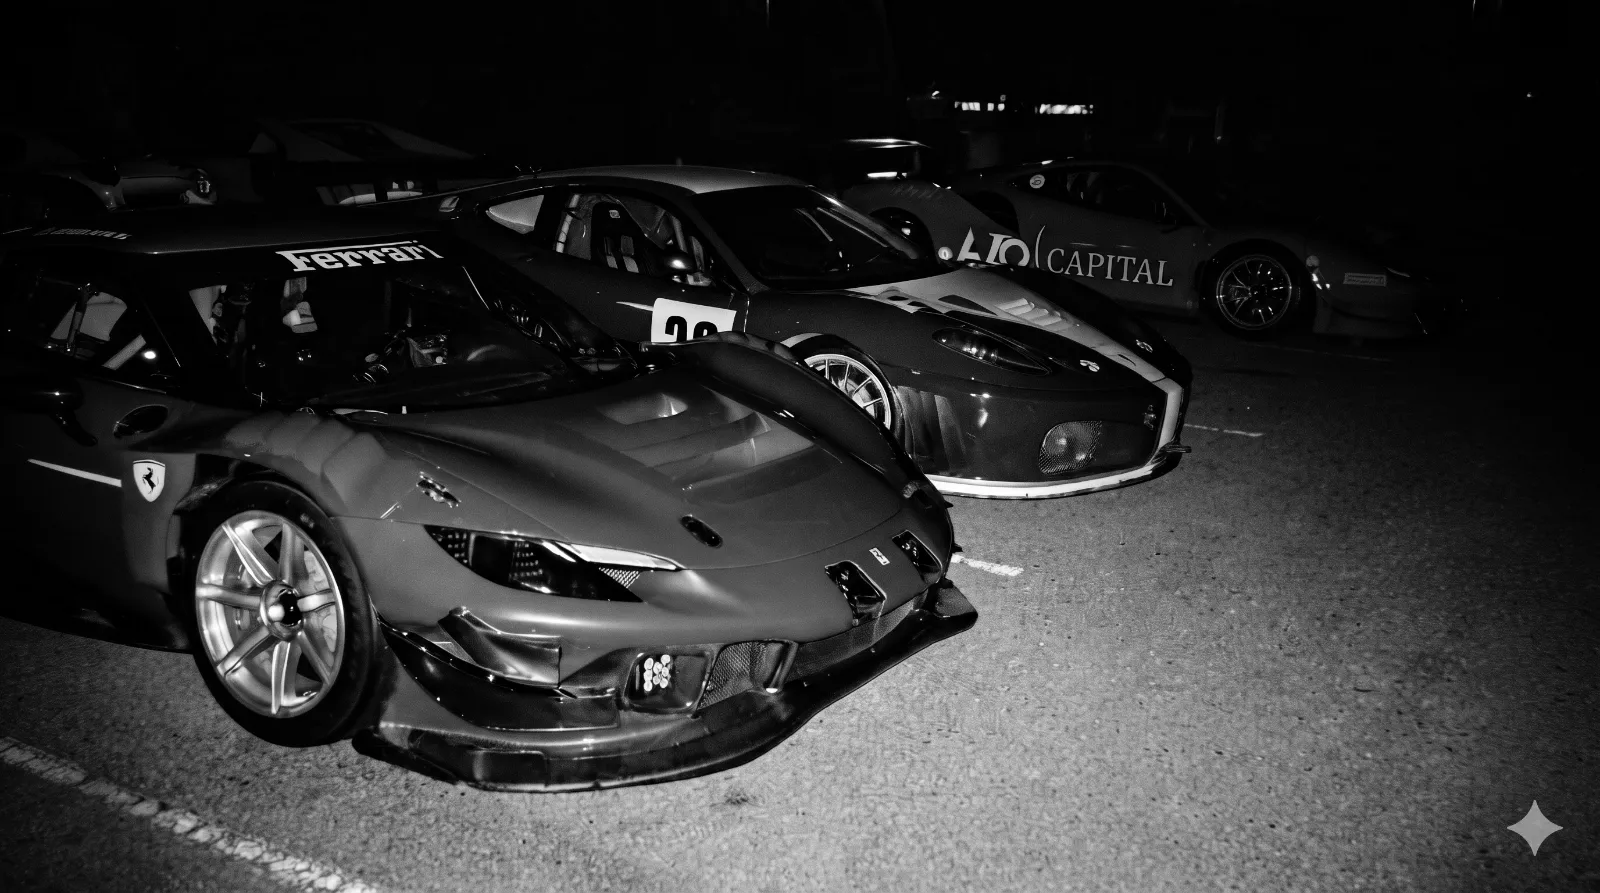
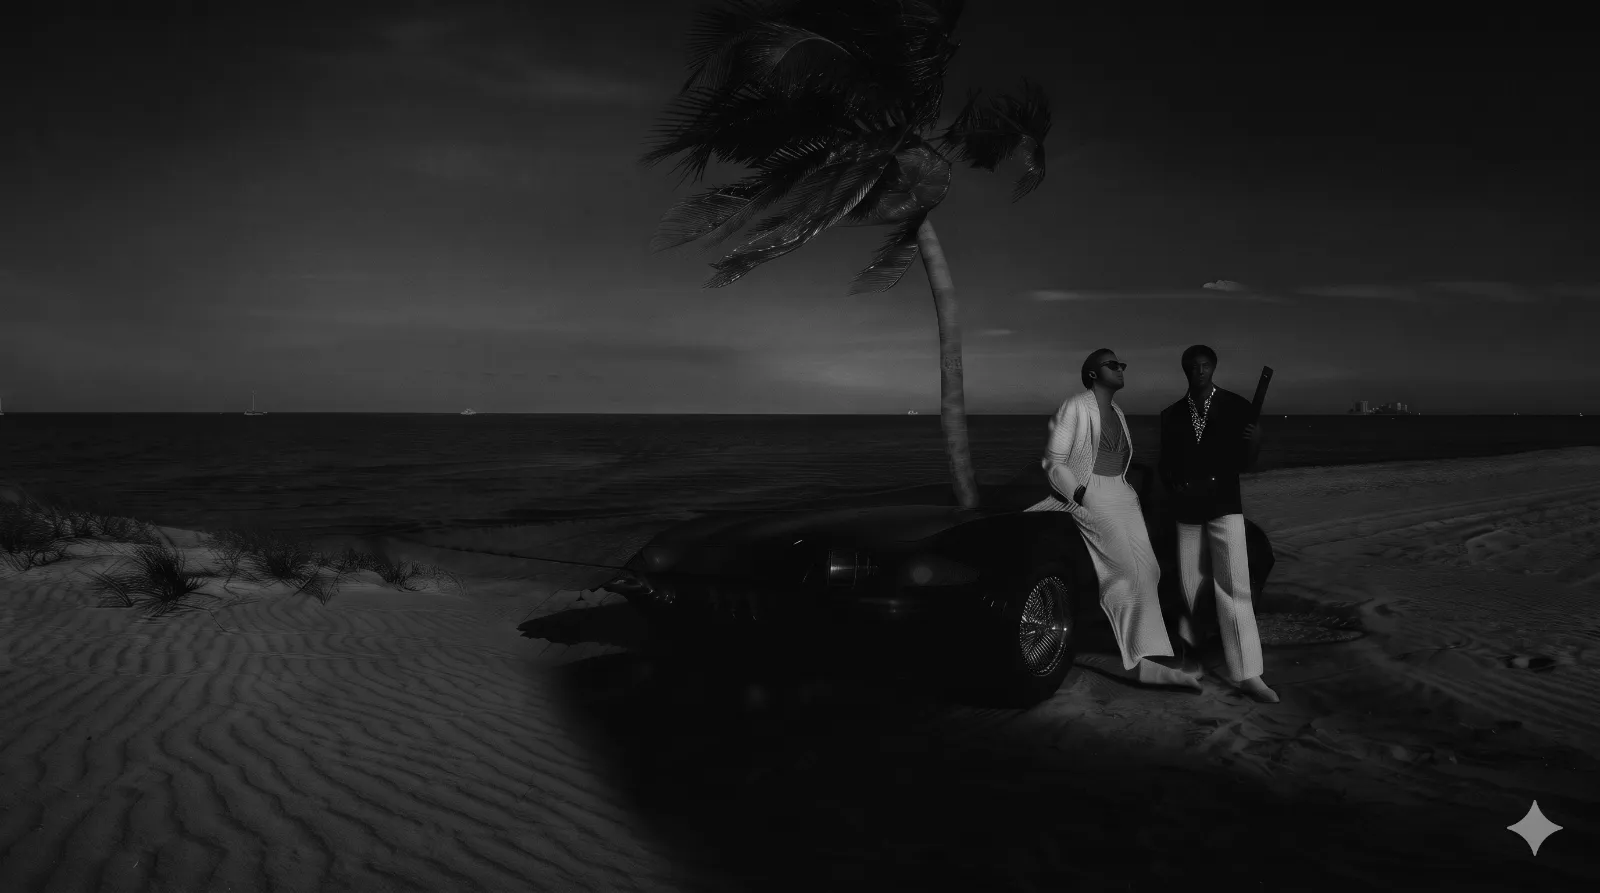
Loader (M01): black ground; new picture 3
- New colour token black (#000000), for the loader's word cards and
  shutter bars only; the site ground stays midnight. DESIGN.md and
  MOTION.md updated with it.
- Picture 3 replaced with the new image, converted to grayscale WebP,
  1600px, 48 KB (original kept in assets/loader-originals/).
- check-tokens: text-black is a token class now, so probe zinc instead.

diff --git a/components/shell/intro.tsx b/components/shell/intro.tsx
@@ -4,10 +4,10 @@
 // moves between pages), a run of hard cuts:
 //   0.0 picture 1 · 0.6 "NEED MONEY" · 1.1 picture 2 · 1.7 "FOR" ·
 //   2.1 picture 3 · 2.7 "FERRARI." · 3.3 shut. All words in burgundy.
-// Meanwhile a closing shutter: two midnight bars grow from the top and bottom
+// Meanwhile a closing shutter: two black bars grow from the top and bottom
 // edges (scaleY, one shared value), so picture 1 is full-screen, picture 2 a
 // letterbox and picture 3 a slit. The word cards sit above the bars, full
-// midnight. At 3.3 the bars meet; then they part, top up and bottom down, and
+// black. At 3.3 the bars meet; then they part, top up and bottom down, and
 // the page shows through the gap. Its entrance starts 0.15s into that.
 // Timings are in lib/motion.ts (intro); the beats come from content/site.ts
 // (intro.loaderSlides). A small 000 to 100 counter runs bottom-left, and the
@@ -81,7 +81,7 @@ function preload(budget: number) {
   return Promise.race([all, timeout]);
 }
 
-/** A full-screen midnight word card in monument size, burgundy, scaled down only if it would overflow a phone. */
+/** A full-screen black word card in monument size, burgundy, scaled down only if it would overflow a phone. */
 function WordCard({ text }: { text: string }) {
   const ref = useRef<HTMLParagraphElement>(null);
   const [scale, setScale] = useState(1);
@@ -98,7 +98,7 @@ function WordCard({ text }: { text: string }) {
     document.fonts.ready.then(fit);
   }, [text]);
   return (
-    <div className="absolute inset-0 flex items-center justify-center bg-midnight px-4 md:px-10">
+    <div className="absolute inset-0 flex items-center justify-center bg-black px-4 md:px-10">
       <p
         ref={ref}
         className="monument whitespace-nowrap text-center text-burgundy"
@@ -216,7 +216,7 @@ export function Intro() {
   const revealing = phase === "reveal";
 
   return (
-    <div className={`intro fixed inset-0 z-75 overflow-hidden ${revealing ? "pointer-events-none" : "bg-midnight"}`}>
+    <div className={`intro fixed inset-0 z-75 overflow-hidden ${revealing ? "pointer-events-none" : "bg-black"}`}>
       <p className="sr-only">{SPOKEN}</p>
       <div aria-hidden="true" className="absolute inset-0">
         {beat?.kind === "image" ? (

diff --git a/lib/motion.ts b/lib/motion.ts
@@ -13,7 +13,7 @@ export const spring = { stiffness: 140, damping: 30, mass: 0.5 } as const;
  * M01 loader. Every full page load: picture, word card, picture, word card,
  * picture, final word card, each a hard cut (3.3s). Each picture holds
  * `imageHold` and settles from `push` to 1; word card n holds `wordHolds[n]`.
- * Meanwhile two midnight shutter bars close from the top and bottom edges,
+ * Meanwhile two black shutter bars close from the top and bottom edges,
  * driven by one value through `shutter.value` at `shutter.at` seconds, so each
  * picture shows through a narrower band than the last. At 3.3s the bars meet;
  * then they part (`reveal`, ease-in-out) to show the page, and the page's

diff --git a/app/globals.css b/app/globals.css
@@ -303,7 +303,7 @@
   }
 }
 
-/* The closing shutter: two midnight bars, each half the screen, scaled from
+/* The closing shutter: two black bars, each half the screen, scaled from
    their outer edge. Above the pictures, under the word cards. */
 .shutter-top,
 .shutter-bottom {
@@ -311,7 +311,7 @@
   left: 0;
   width: 100vw;
   height: 50dvh;
-  background: var(--color-midnight);
+  background: var(--color-black);
   transform: scaleY(0);
   will-change: transform;
 }

diff --git a/docs/MOTION.md b/docs/MOTION.md
@@ -31,7 +31,7 @@ Default spring for anything that follows the pointer or scroll: stiffness 140, d
 
 | ID | Pattern | Trigger | What happens | Build |
 | --- | --- | --- | --- | --- |
-| M01 | Loader | Every full page load: the first visit and every refresh, not moves between pages | A run of hard cuts, no fades, timed from one clock: picture 1 full-screen (`object-fit: cover`) at 0.0s; a full-screen midnight card with "NEED MONEY" in `monument` Anton, `burgundy`, centred, at 0.6s; picture 2 at 1.1s; "FOR" at 1.7s; picture 3 at 2.1s; "FERRARI." at 2.7s, all three words in the same `burgundy`. Each picture scales from 1.06 to 1 while it shows. Meanwhile a closing shutter: two midnight bars, `.shutter-top` and `.shutter-bottom`, each 100vw × 50dvh, scaled from their outer edge (`scaleY`) by one shared value: 0 at 0.0s, 0.12 at 1.1s, 0.55 at 2.1s, 0.88 at 2.7s and 1 at 3.3s, easing in between keyframes. So picture 1 is full-screen, picture 2 a letterbox and picture 3 a slit. Layers, bottom to top: picture, bars, word cards. At 3.3s the bars meet and the screen is solid midnight; then the top bar moves up (`y: -100%`) and the bottom bar down (`y: 100%`) over 700ms, `ease-in-out`, and the page shows through the gap. The page's entrance starts at 3.45s, while the bars part. Clicks reach the page while the bars part; scroll stays locked until they have gone (about 4.0s), then the loader unmounts. A small 000 to 100 counter runs bottom-left until the bars part, with a mono "loading" label; the grain sits over everything until then. The pictures are preloaded first; if they are not ready within 1 second, only the word cards play, then the bars part. Any click, key, wheel or touch skips straight to the bars parting. Pictures are `aria-hidden`; the line is real text that screen readers hear once ("need money for ferrari"). Beats come from `content/site.ts` → `intro.loaderSlides`; timings from `lib/motion.ts` → `intro`. Any skip only ends this showing; the next refresh plays it again | Hard cuts by swapping one element; Motion for the push-in, the counter and the shutter (transform only: `scaleY` and `y`); no session flag: it runs on every load |
+| M01 | Loader | Every full page load: the first visit and every refresh, not moves between pages | A run of hard cuts, no fades, timed from one clock: picture 1 full-screen (`object-fit: cover`) at 0.0s; a full-screen `black` card with "NEED MONEY" in `monument` Anton, `burgundy`, centred, at 0.6s; picture 2 at 1.1s; "FOR" at 1.7s; picture 3 at 2.1s; "FERRARI." at 2.7s, all three words in the same `burgundy`. Each picture scales from 1.06 to 1 while it shows. Meanwhile a closing shutter: two `black` bars, `.shutter-top` and `.shutter-bottom`, each 100vw × 50dvh, scaled from their outer edge (`scaleY`) by one shared value: 0 at 0.0s, 0.12 at 1.1s, 0.55 at 2.1s, 0.88 at 2.7s and 1 at 3.3s, easing in between keyframes. So picture 1 is full-screen, picture 2 a letterbox and picture 3 a slit. Layers, bottom to top: picture, bars, word cards. At 3.3s the bars meet and the screen is solid black; then the top bar moves up (`y: -100%`) and the bottom bar down (`y: 100%`) over 700ms, `ease-in-out`, and the page shows through the gap. The page's entrance starts at 3.45s, while the bars part. Clicks reach the page while the bars part; scroll stays locked until they have gone (about 4.0s), then the loader unmounts. A small 000 to 100 counter runs bottom-left until the bars part, with a mono "loading" label; the grain sits over everything until then. The pictures are preloaded first; if they are not ready within 1 second, only the word cards play, then the bars part. Any click, key, wheel or touch skips straight to the bars parting. Pictures are `aria-hidden`; the line is real text that screen readers hear once ("need money for ferrari"). Beats come from `content/site.ts` → `intro.loaderSlides`; timings from `lib/motion.ts` → `intro`. Any skip only ends this showing; the next refresh plays it again | Hard cuts by swapping one element; Motion for the push-in, the counter and the shutter (transform only: `scaleY` and `y`); no session flag: it runs on every load |
 | M02 | Burgundy stairs wipe | Every route change (not the end of M01, which has its own shutter) | Five vertical burgundy columns rise from the bottom one after another, left to right, 60ms apart, each taking `dur-page`, until the screen is covered. The new page mounts underneath. The columns then leave upward in the same order. `ease-in-out` | React `<ViewTransition>` or a fixed overlay driven by Motion; five divs, staggered y transforms. Fallback: instant cut |
 | M22 | Grain | Always | Fixed full-screen noise layer jumps position five times a second | CSS `steps()` animation on a fixed, pointer-events-none layer |
 | M25 | Smooth scroll | Always | Scrolling is eased, same speed as native | Lenis at default settings, driven by Motion's frame loop. Off for touch and for reduced motion |

diff --git a/docs/DESIGN.md b/docs/DESIGN.md
@@ -32,6 +32,7 @@ Dark only. Fixed proportions on every page: about 70% `midnight`, 20% `burgundy`
 | Token | Value | Job |
 | --- | --- | --- |
 | `midnight` | #070B14 | Page ground |
+| `black` | #000000 | The loader (M01) only: word cards and shutter bars |
 | `midnight-raised` | #11141D | Menu overlay, frames |
 | `line` | #2A2F3D | 1px hairlines |
 | `burgundy` | #800020 | The loud colour, as a filled field |
@@ -42,7 +43,7 @@ Dark only. Fixed proportions on every page: about 70% `midnight`, 20% `burgundy`
 
 Rules
 
-1. **Burgundy is a surface, claret is ink.** `burgundy` on `midnight` is 1.8:1 and unreadable, so burgundy only appears as a filled area with `ivory` text on it. For a burgundy word or line on the dark ground, use `claret`. One exception: the loader's word cards (M01) are set in `burgundy` on midnight, by choice: monument-size, decorative (screen readers get the line as text), and meant to sit dim against the ground.
+1. **Burgundy is a surface, claret is ink.** `burgundy` on `midnight` is 1.8:1 and unreadable, so burgundy only appears as a filled area with `ivory` text on it. For a burgundy word or line on the dark ground, use `claret`. One exception: the loader's word cards (M01) are set in `burgundy` on `black`, by choice: monument-size, decorative (screen readers get the line as text), and meant to sit dim against the ground.
 2. `claret` on midnight is 4:1. Use it at 24px and larger only.
 3. On burgundy, all text is `ivory`. `ash` and `claret` both fail there.
 4. Every page has one or two full-bleed burgundy moments, never more.
